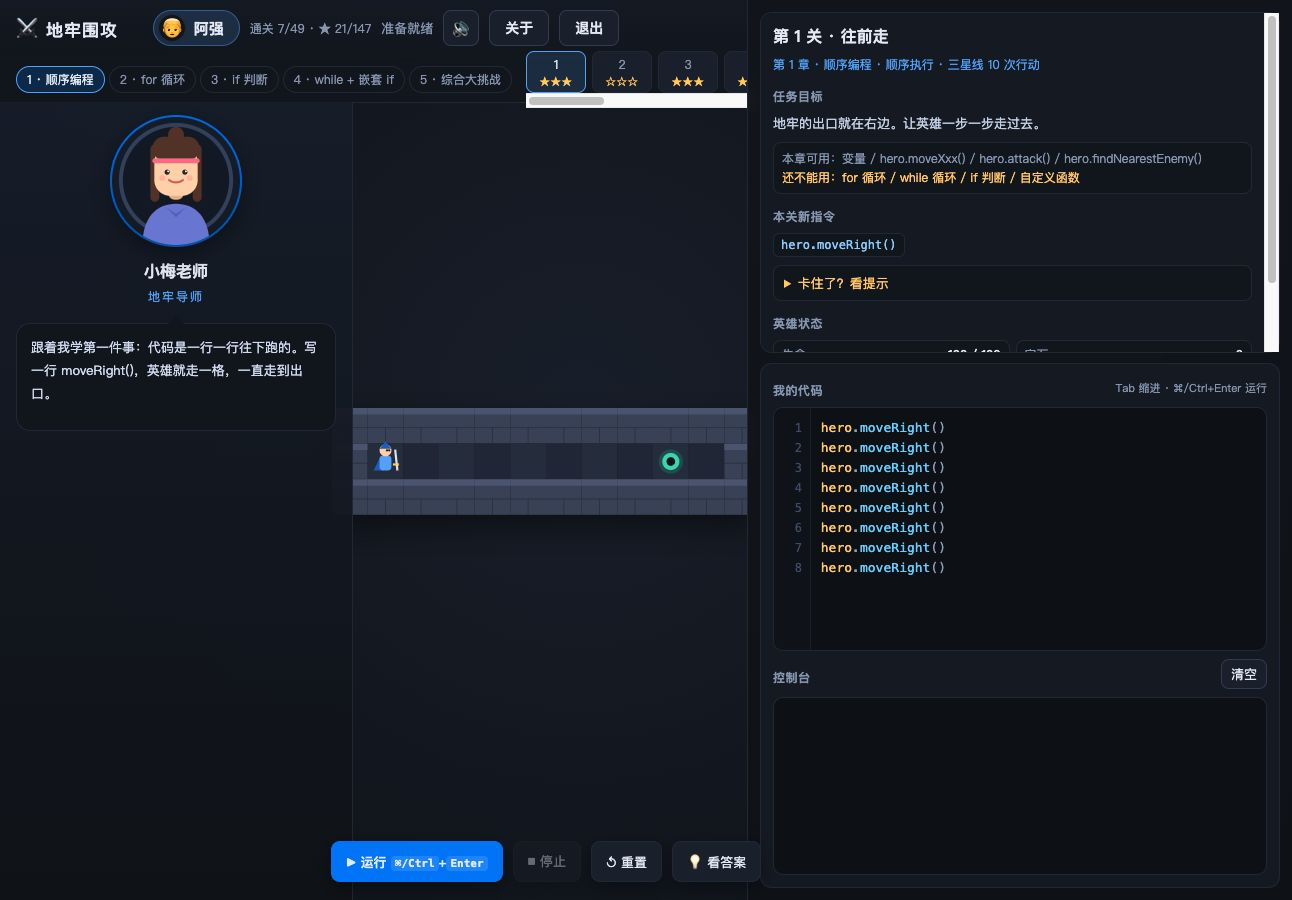
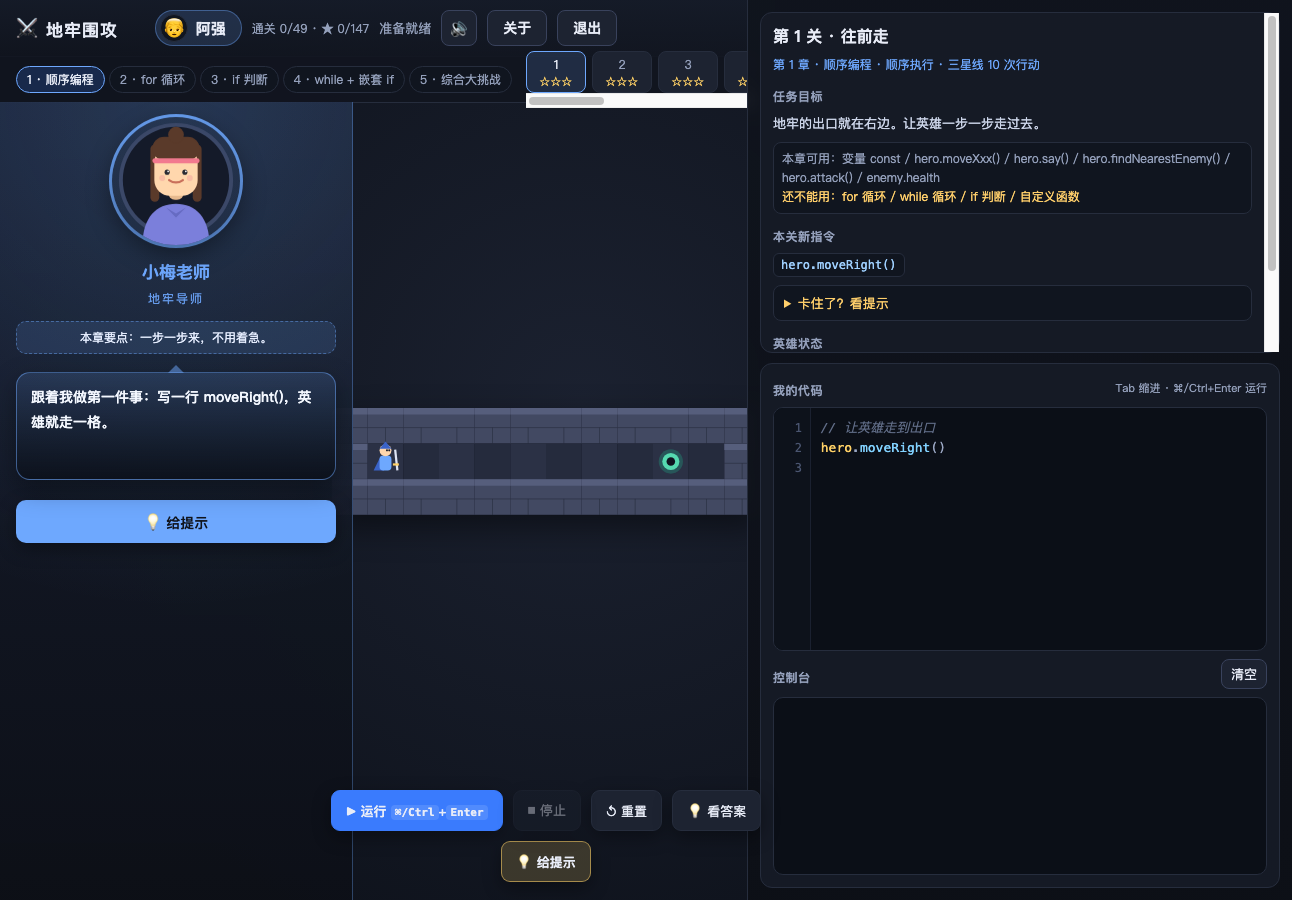
文档：更新游戏介绍与界面截图

diff --git a/游戏介绍.md b/游戏介绍.md
@@ -2,17 +2,19 @@
 
 > 写几行代码，英雄就替你闯地牢。
 
-《地牢围攻》是一个 CodeCombat 风格的编程入门小游戏：你在右侧写 JavaScript，英雄就在地牢里走路、砍怪、捡宝石、绕开尖刺。不用装复杂软件，不懂术语也能上手——代码写错了会有中文报错，卡住了有导师手把手教。
+《地牢围攻》是一款面向 **8~12 岁编程零基础孩子** 的代码闯关小游戏。你不需要先记住一堆术语：在右侧写 JavaScript，中间地牢里的英雄就会走路、捡宝石、喝药水、挥剑打怪。写对了，英雄马上动起来；写错了，会有中文报错、行号定位和导师提示；卡住了，还可以直接点「💡 给提示」，让老师把这一关的方法讲给你听。
 
-**永久免费 · 49 关全开 · 无广告 · 无收费**
+它像一个会陪着孩子慢慢讲题的编程启蒙教练：**49 个关卡全部开放，5 个章节逐步解锁 JavaScript 的核心概念**，从“让英雄走一步”，一路学到循环、判断、自动探索和综合挑战。没有广告，没有内购，所有进度都保存在本机。
+
+**永久免费 · 49 关全开 · 中文教学 · 语音提示 · 无广告 · 无收费**
 
 ## 下载安装
 
-以下都是已经打包好的安装包，下载后双击就能玩，不需要安装 Node.js 或 Cocos Creator。
+下面都是已经打包好的安装包，下载后双击就能玩，不需要安装 Node.js、Cocos Creator 或任何编程环境。
 
 **macOS**
 
-- Apple 芯片（M 系列）：[下载 dmg](https://github.com/alucardulad/dungeon-siege/releases/download/v3.8.6/CodeDungeon-3.8.6-mac-arm64.dmg) —— 打开后把「地牢围攻」拖进「应用程序」即可；或 [下载 zip](https://github.com/alucardulad/dungeon-siege/releases/download/v3.8.6/CodeDungeon-3.8.6-mac-arm64.zip) 解压后双击 App。
+- Apple 芯片（M 系列）：[下载 dmg](https://github.com/alucardulad/dungeon-siege/releases/download/v3.8.6/CodeDungeon-3.8.6-mac-arm64.dmg) —— 打开后把「地牢围攻」拖进「应用程序」即可；也可以 [下载 zip](https://github.com/alucardulad/dungeon-siege/releases/download/v3.8.6/CodeDungeon-3.8.6-mac-arm64.zip)，解压后双击 App。
 - Intel 芯片：[下载 dmg](https://github.com/alucardulad/dungeon-siege/releases/download/v3.8.6/CodeDungeon-3.8.6-mac-x64.dmg) 或 [下载 zip](https://github.com/alucardulad/dungeon-siege/releases/download/v3.8.6/CodeDungeon-3.8.6-mac-x64.zip)。
 
 **Windows**
@@ -22,7 +24,7 @@
 
 **全平台（免安装）**
 
-- [单文件 HTML](https://github.com/alucardulad/dungeon-siege/releases/download/v3.8.6/CodeDungeon-3.8.6-single.html)：下载后用任意浏览器打开就能玩，适合不方便安装的场景。
+- [单文件 HTML](https://github.com/alucardulad/dungeon-siege/releases/download/v3.8.6/CodeDungeon-3.8.6-single.html)：下载后用任意浏览器打开就能玩，适合不方便安装软件的场景。
 
 全部下载见 [Releases 页面](https://github.com/alucardulad/dungeon-siege/releases/tag/v3.8.6)。
 
@@ -32,40 +34,211 @@
 
 ## 三步开始玩
 
-**① 取个名字，选一位英雄。**
+### ① 取个名字，选一位英雄
 
-男英雄 / 女英雄随你挑，角色立绘会跟着性别变化，名字和选择都会被记住，右上角 👤 随时可以改。
+第一次打开先输入名字，再选择男英雄或女英雄。角色立绘会跟着性别变化，名字和选择都会自动记住；右上角点自己的名字，随时可以改名字或换角色。
 
 ![登录选角](https://github.com/alucardulad/dungeon-siege/raw/main/%E6%88%AA%E5%9B%BE/01_%E7%99%BB%E5%BD%95%E9%80%89%E8%A7%92.png)
 
-**② 在右边写代码。**
+### ② 在右边写代码，点「运行」
 
-`hero.moveRight()` 走一格、`hero.attack(敌人)` 攻击、`hero.findNearestItem()` 捡最近的宝石。点「运行」，左边的地牢就会动起来。
+界面右边是代码编辑器和控制台，中间是地牢，左边是陪你闯关的老师。
 
-**③ 一关一关学语法。**
+最开始的代码只有一两行，例如：
 
-课程按 5 个难度段、共 49 关递进：从顺序执行、for 循环、if 判断，一路到 while 自动探索和迷宫综合挑战。每段只解锁一类新语法，提前用了会被拦下，还会提示「这一章还不能用」。
+```js
+hero.moveRight()
+```
+
+点「▶ 运行」后，英雄就会向右走一格。后面的课程会慢慢加入：
+
+```js
+hero.moveDown()
+hero.say("你好")
+const 敌人 = hero.findNearestEnemy()
+hero.attack(敌人)
+```
+
+每关都会清楚写出“任务目标”，并标明本关要学的新指令；复习关则把学过的内容组合起来。不知道怎么开始时，可以点左侧老师面板里的「💡 给提示」，也可以点底部工具栏里的同一个按钮；老师会把这一关的思路用大白话讲出来。
+
+### ③ 一关一关学语法
+
+课程分成 5 章、共 49 关：
+
+| 章节 | 关卡 | 学什么 |
+|---|---:|---|
+| 第 1 章 · 顺序编程 | 1~10 | 把动作按顺序写出来：移动、说话、找敌人、用 `const` 起名字、攻击、查看敌人血量 |
+| 第 2 章 · for 循环 | 11~22 | 发现重复动作，用 `for` 循环代替一长串重复代码 |
+| 第 3 章 · if 判断 | 23~34 | 看距离、看血量、看前方格子，学会用 `if / else if / else` 做选择 |
+| 第 4 章 · while + 嵌套 if | 35~44 | 不用数次数，让英雄自己判断什么时候继续、什么时候停 |
+| 第 5 章 · 综合大挑战 | 45~49 | 把迷宫、怪物、尖刺、函数和前面所有知识一起用起来 |
+
+每章只解锁对应的新语法，还没教到的写法会被教学锁拦下，并提示“这一章还不能用”。这样孩子不会被超纲代码绕晕，也能把每个概念真正练会。
+
+## 最近版本的新变化
+
+### 一关只教一个新概念
+
+49 关已经重新排成“**一关只教一个新概念**”的路线，避免一关同时塞进好几个术语。第一章里，原本容易让孩子卡住的 `const 敌人 = hero.findNearestEnemy()` 被拆成了更容易理解的顺序：
+
+- 第 6 关先认识 `hero.findNearestEnemy()`：看看前面有谁；
+- 第 7 关再学 `const 敌人 = ...`：把找到的敌人存起来并起个名字；
+- 第 8 关才学 `hero.attack(敌人)`：走到敌人旁边，第一次真正出手。
+
+第 5 关先学会让英雄说话，第 6 关用 `hero.say()` 把找到的敌人名字念出来，孩子能立刻看到“找敌人”这一步的结果；等第 7 关理解变量后，第 8 关再动手攻击。
+
+对刚开始学编程的孩子来说，“找到、记住、给名字、再攻击”是一串完整的思考过程。拆开以后，每一步都能单独练、单独看懂。
+
+### 老师会按章节讲，也会随机换说法
+
+左侧常驻一位教学导师。选男英雄时是小梅老师，选女英雄时是石头老师；老师头像、名字和语气会跟着角色切换。
+
+老师不只是固定念一句话：
+
+- 进入新关卡时，会先讲这一关要学什么；
+- 代码报错时，会根据错误类型给出提醒；
+- 英雄失败或目标没完成时，会给出思路；
+- 通关时会根据星级夸奖；
+- 每一章准备了多条不同说法，随机循环使用，不会反复听同一句；
+- 同一句话不会连着说两次，避免孩子觉得像复读机。
+
+每章的引导颜色也不同：顺序编程是蓝色，`for` 循环是绿色，`if` 判断是金色，`while` 是紫色，综合挑战是橙色。老师名字下面还会显示“本章要点”，一眼就知道这一章在练什么。
+
+### 新增老师提示语音
+
+现在点「💡 给提示」时，老师不仅会在屏幕左侧打字显示提示，还会用语音把提示讲出来。语音由“开头语 + 本关提示”两段组成，例如：
+
+> 注意这里：小兽会主动扑过来，站住打它就行。
+
+提示语音和游戏音效共用右上角的静音按钮，点一下就能整体静音；同一个关闭状态下，音效和老师语音都不会突然响起来。每关的多条提示也会依次轮换，孩子可以听一遍、看一遍，再自己试。
+
+### 「给提示」按钮变得更显眼
+
+老师面板和底部工具栏现在各有一个醒目的「💡 给提示」按钮。以前提示藏在折叠框里，孩子卡住时容易找不到；现在不需要展开任何内容，点一下老师就会直接讲当前关卡的提示。
+
+如果连续失败，老师在报错或未完成时也会自动给出更贴近当前情况的提示。主动点按钮更适合“我完全没思路”，连续失败提示更适合“我写了一点，但不知道错在哪”。
+
+### 教学文案更适合 8~12 岁
+
+老师现在尽量用孩子能听懂的话，不用“条件成立”“循环体”“赋值”这类术语，而是换成“能走就继续走”“把结果存到一个名字里”这样的表达。
+
+文案按章节逐步变化：入门章节更偏向鼓励和带着做，后面的章节更强调“把大问题拆成小问题”。老师说的每句话尽量短，屏幕上容易读，语音也容易听懂。
 
 ## 学得会，因为有人带
 
-一位教学导师常驻左侧：选男英雄是小梅老师，选女英雄是石头老师。进关讲新概念，卡关给提示，报错帮你定位，通关了还会夸你。
+### 左侧老师面板
+
+老师常驻左侧，头像会跟着英雄性别变化。面板里有三块信息：
+
+1. 老师的名字、身份和当前状态；
+2. “本章要点”；
+3. 老师正在说的话和「💡 给提示」按钮。
+
+讲提示时，文字会像打字机一样逐字出现；如果读得快，可以点一下气泡，立刻显示完整内容。
 
 ![教学导师](https://github.com/alucardulad/dungeon-siege/raw/main/%E6%88%AA%E5%9B%BE/03_%E6%95%99%E5%AD%A6%E5%AF%BC%E5%B8%88.png)
 
-## 写错了也不慌
+### 中文报错，直接告诉你在哪一行
 
-代码报错会给出中文提示，并直接指出是第几行；死循环会被步数上限拦下；关卡目标没达成就不会通关。多试几次，观察英雄的动作，找到逻辑漏洞，就是学习的过程。
+写错代码不跳出一串英文堆栈，而是给出中文说明：
+
+- `hero.fly()` 会提示“不是一个可以调用的函数”；
+- 括号或引号没写完，会提示“代码似乎还没写完”；
+- 循环停不下来，会提示“像是死循环”，并提醒检查循环条件或加 `break`；
+- 还没教的语法，会提示“这一章还没有教这个写法”。
+
+编辑器会把出错行标成红色，控制台会写明第几行。孩子不用猜“哪里错了”，可以直接回到那一行检查。
 
 ![代码报错](https://github.com/alucardulad/dungeon-siege/raw/main/%E6%88%AA%E5%9B%BE/05_%E4%BB%A3%E7%A0%81%E6%8A%A5%E9%94%99.png)
 
-## 通关那一刻
+### 每关都有参考解
 
-每关都带参考解，卡住可以点「💡 看答案」；按行动数评三星，写得啰嗦一点也能拿三星。
+每关都带一份可以参考的答案，编辑器里点「💡 看答案」就会自动填入参考解。参考解不是让孩子抄完就算了，而是可以点「运行」观察英雄的动作，对照自己的代码，看看同样的路线还能怎么写得更短。
+
+每关会按行动次数评三星：在三星线以内拿三星，稍微超出会拿两星，再多一些拿一星。这样既鼓励孩子把代码写得更简洁，也不会因为多写几步就完全失去成就感。
+
+### 通关结算和存档
+
+通关后会弹出结算，显示用了多少次行动、三星线是多少、代码一共执行了多少步，并给出“下一关”“再试一次”“留在这里”三个选择。每关拿到的星级会显示在顶部关卡列表里，名字、角色、当前代码和星级进度都会保存在本机，下次打开还能接着玩。
 
 ![通关结算](https://github.com/alucardulad/dungeon-siege/raw/main/%E6%88%AA%E5%9B%BE/04_%E9%80%9A%E5%85%B3%E7%BB%93%E7%AE%97.png)
 
+## 每个关卡都在练什么
+
+下面是 49 关的主要教学顺序。它不是一份“背语法表”，而是按孩子的理解难度来排的：
+
+```text
+第 1 章 · 顺序编程
+1  moveRight()                 2  moveLeft()
+3  moveDown()                  4  moveUp()
+5  hero.say()                  6  findNearestEnemy()
+7  const 起名字                8  hero.attack()
+9  看敌人血量                 10  第一章综合复习
+
+第 2 章 · for 循环
+11 认识 for 循环               12~13 两段路和复习
+14 把攻击放进循环             15 循环里写多行
+16 字符串和循环变量           17 复习
+18 用变量控制循环次数         19~22 复习与组合
+
+第 3 章 · if 判断
+23 distanceTo()                24 if
+25 else                        26 并且 &&
+27 canMoveRight()              28 canMoveDown()
+29 看到尖刺就绕开             30 前面是墙就改道
+31 else if                    32 英雄自己的血量
+33 最高血量和药水             34 第三章综合复习
+
+第 4 章 · while + 嵌套 if
+35 while (true)                36 用位置决定什么时候停
+37 边走边打                    38 一路收集
+39 打到 boss 倒下             40 break 和迷宫入门
+41 尖刺回廊（自动版）         42 迷宫进阶
+43 巡逻队                      44 第四章综合复习
+
+第 5 章 · 综合大挑战
+45~49 迷宫、尖刺、敌人、函数和全部知识综合挑战
+```
+
+## 适合谁
+
+- 家里有 8~12 岁孩子，想试试编程，但不想一开始就背语法；
+- 学校里想用一个小游戏做编程启蒙，下载安装包就能用；
+- 自己完全没写过代码，想先体验“我写的指令真的能让角色动起来”；
+- 已经会一点编程，想用轻松的方式复习顺序、循环和判断。
+
+如果孩子还不会打字，家长可以陪着一起读任务、找指令；如果已经会读简单英文，也可以直接看 `moveRight()`、`for`、`if` 这些单词，慢慢建立编程语感。
+
+## 常见问题
+
+**需要先学 JavaScript 吗？**
+
+不需要。课程从 `hero.moveRight()` 这种一行就能看懂的动作开始，把 JavaScript 语法拆成了 49 个小步骤。
+
+**为什么提前写了 `for` 或 `while`，游戏不让用？**
+
+这是教学锁，不是代码坏了。课程要确保孩子先把当前章节的概念练明白，再进入下一章。界面上会告诉你“这一章还不能用”，完成对应章节后自然会解锁。
+
+**孩子卡住了怎么办？**
+
+先让他看英雄走到哪一步停住，再点「💡 给提示」。同一关有多条提示时会依次轮换；如果连续运行失败，老师也会主动给出更具体的提醒。
+
+**进度会丢吗？**
+
+名字、角色、代码和星级进度都保存在本机。删除浏览器或 App 的本地数据、换电脑或换浏览器后，进度不会自动同步。
+
+**会不会有广告或收费？**
+
+没有广告，没有内购，49 关全部开放。这个工具是开发者自己做的，喜欢的话可以在【关于】页面看到联系方式和打赏码。
+
 ## 关于
 
-这个小工具永久免费，49 关全部开放，没有收费项目，也不弹广告。开发者邮箱和打赏码都在【关于】页面里。
+这是一个永久免费的编程入门小工具，49 关全部开放，没有收费项目，也不会弹出广告。开发者信息和打赏码都在游戏里的【关于】页面。
 
 ![关于页面](https://github.com/alucardulad/dungeon-siege/raw/main/%E6%88%AA%E5%9B%BE/06_%E5%85%B3%E4%BA%8E%E9%A1%B5%E9%9D%A2.png)
+
+## 技术说明
+
+游戏基于 **Cocos Creator 3.8 + TypeScript** 开发，核心解释器、教学锁、关卡规则和界面层相互独立。网页预览、Electron 桌面版和单文件 HTML 用的是同一套课程与界面代码。
+
+打包后的桌面版和单文件 HTML 都不需要安装 Node.js。仓库里也有完整的开发者文档、关卡设计规范和自动化测试。
